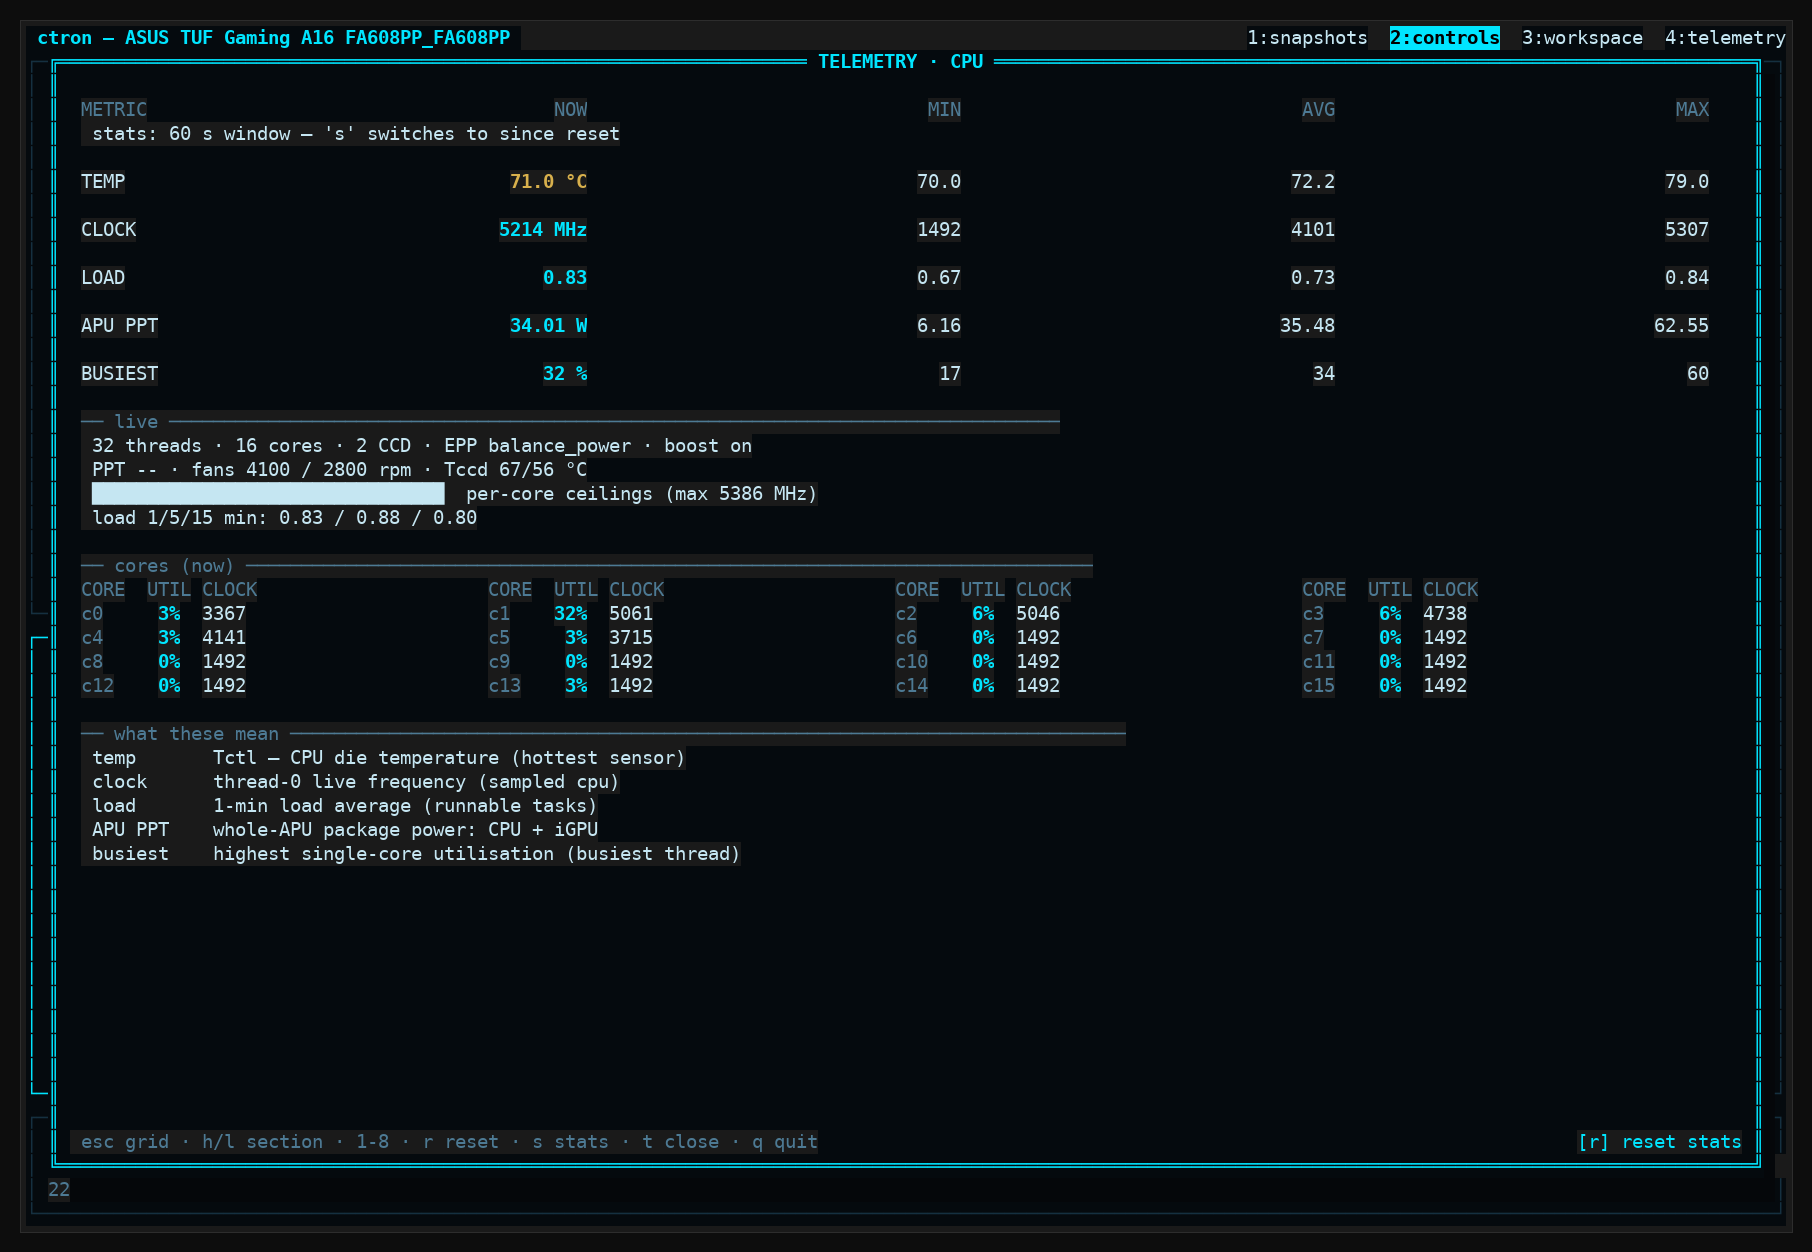
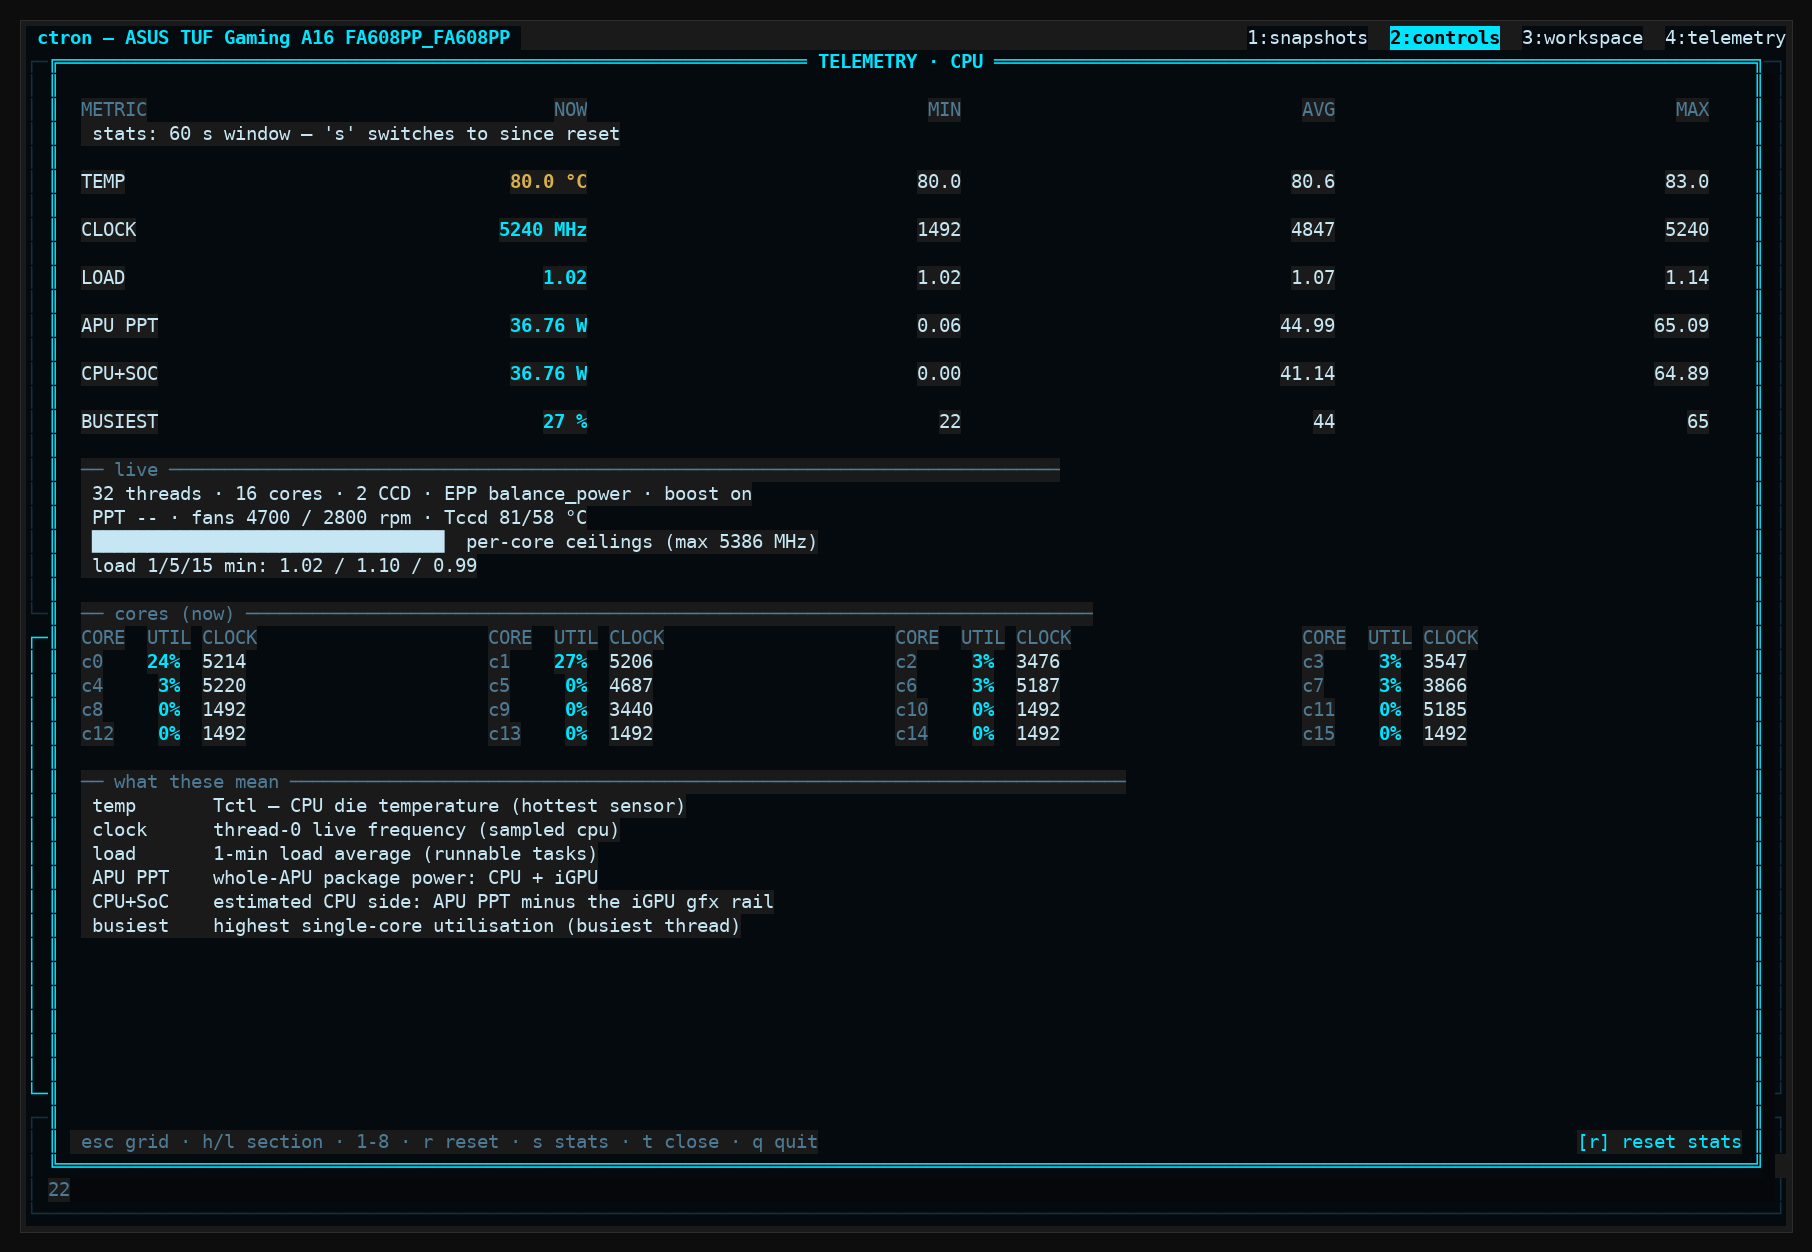
telem: APU power split - CPU+SoC (est) + iGPU gfx rail series - user ask: split the APU watt into CPU and iGPU; the researched formula ships: CPU+SoC = amdgpu power1_input minus the gpu_metrics gfx rail, both sides real sensors, the difference derived (hw_split_cpu_socw pure helper, unit-tested: unk

diff --git a/src/ui/panel_telem_full.c b/src/ui/panel_telem_full.c
@@ -148,6 +148,12 @@ static const chartdef_t CD_CPU[] = {
      * storage — watching a CPU test wants the package power beside */
     { "APU PPT", U_W, TS_IGPU_MW,
      "whole-APU package power: CPU + iGPU", ZN_NONE, -1, NULL },
+    /* the split's CPU side: package minus the iGPU gfx rail. Label
+     * says the truth — SoC/uncore ride along, and both source
+     * counters sample on different clocks (est, short wobble) */
+    { "CPU+SoC", U_W, TS_CPU_SOCMW,
+     "estimated CPU side: APU PPT minus the iGPU gfx rail",
+     ZN_NONE, -1, NULL },
     /* the per-core table below is a NOW snapshot with no stats by
      * design (16 cores x min/avg/max x 2 modes would bury the page);
      * the time dimension of "how busy do the cores get" lives here,
@@ -169,7 +175,13 @@ static const chartdef_t CD_IGPU[] = {
     /* amdgpu power1_input is the SoC PPT: the WHOLE APU package
      * (CPU cores + iGPU + fabric), not the iGPU rail alone */
     { "APU PPT", U_W, TS_IGPU_MW,
-      "whole-APU package power: CPU + iGPU", ZN_NONE, -1, NULL },
+     "whole-APU package power: CPU + iGPU", ZN_NONE, -1, NULL },
+    /* the split's iGPU side, straight from gpu_metrics — the only
+     * live per-rail power this silicon reports (caps at the ~10 W
+     * gfx rail budget under load, reads true 0 W when gated) */
+    { "gfx rail", U_W, TS_IGPU_GFXMW,
+     "iGPU rail power (gpu_metrics; caps at the rail budget)",
+     ZN_NONE, -1, NULL },
     { "clock", U_MHZ, TS_IGPU_MHZ, "iGPU graphics clock",
       ZN_NONE, -1, NULL },
 };
@@ -713,7 +725,7 @@ static int core_now_table(struct ncplane *n, int x, int y, int w, int rows)
             if (cx + 15 >= x + w)
                 break;
             int u = hw->core_util[i + c], m = hw->core_mhz[i + c];
-            char id[8], uv[8], mv[8];
+            char id[16], uv[16], mv[16];
             snprintf(id, sizeof id, "c%d", hw->core_cpu[i + c]);
             if (u >= 0)
                 snprintf(uv, sizeof uv, "%d%%", u);
@@ -843,10 +855,10 @@ static void detail_igpu(struct ncplane *n, const rect_t *r)
     if (hw->igpu_dpm >= 0 && (size_t)blen < sizeof l1)
         snprintf(l1 + blen, sizeof l1 - blen, " · sclk DPM %d/%d @ %d MHz",
                  hw->igpu_dpm + 1, hw->igpu_dpm_n, hw->igpu_dpm_mhz);
-    if (hw->igpu_gfx_mw >= 0)
+    if (hw->cpu_soc_mw >= 0)
         snprintf(l2, sizeof l2,
-                 " APU PPT = whole-package (CPU+iGPU) · gfx rail %.1f W",
-                 hw->igpu_gfx_mw / 1000.0);
+                 " split: CPU+SoC %.1f W + gfx rail %.1f W (est)",
+                 hw->cpu_soc_mw / 1000.0, hw->igpu_gfx_mw / 1000.0);
     else
         snprintf(l2, sizeof l2, " APU PPT = whole-package power (CPU+iGPU)");
     const char *info[3] = { l0, l1, l2 };
@@ -1338,6 +1350,8 @@ void telem_poll(hw_state_t *hw, long now_ms)
     telem_push(TS_IGPU_TEMP, hw->igpu_temp);
     telem_push(TS_IGPU_MHZ, hw->igpu_mhz);
     telem_push(TS_IGPU_MW, hw->igpu_mw);
+    telem_push(TS_IGPU_GFXMW, hw->igpu_gfx_mw);
+    telem_push(TS_CPU_SOCMW, hw->cpu_soc_mw);
     telem_push(TS_FAN_CPU, hw->rpm_cpu);
     telem_push(TS_FAN_GPU, hw->rpm_gpu);
     telem_push(TS_MEM_USED, hw->mem_used_mb);

diff --git a/src/main.c b/src/main.c
@@ -280,7 +280,7 @@ static void csv_val(char *out, size_t n, int v)
 static int cmd_csv(hw_state_t *hw, const char *path)
 {
     /* columns this build writes — the header and the row must agree */
-    enum { CSV_COLS = 15 };
+    enum { CSV_COLS = 17 };
     bool new = ut_path_exists(path) == false;
     int hdr_cols = 0;
     if (!new) {
@@ -316,7 +316,8 @@ static int cmd_csv(hw_state_t *hw, const char *path)
     if (new)
         fprintf(f, "epoch,cpu_temp_c,igpu_temp_c,gpu_temp_c,cpu_mhz,gpu_mhz,"
                    "gpu_util_pct,gpu_mw,fan_cpu_rpm,fan_gpu_rpm,bat_pct,bat_mw,"
-                   "load1,wifi_signal_pct,busiest_util_pct\n");
+                   "load1,wifi_signal_pct,busiest_util_pct,cpu_soc_mw,"
+                   "igpu_gfx_mw\n");
 
     struct sigaction sa = {0};
     sa.sa_handler = watch_stop;
@@ -327,7 +328,8 @@ static int cmd_csv(hw_state_t *hw, const char *path)
             new ? "new file" : "appending");
     while (s_watch_run) {
         char t[16], ti[16], tg[16], mc[16], mg[16], gu[16], gw[16],
-             fc[16], fg[16], bp[16], bm[16], l1[16], wl[16], bu[16];
+             fc[16], fg[16], bp[16], bm[16], l1[16], wl[16], bu[16],
+             cs[16], gr[16];
         hw_refresh_fast(hw);
         csv_val(t, sizeof t, hw->cpu_temp);
         csv_val(ti, sizeof ti, hw->igpu_temp);
@@ -346,9 +348,11 @@ static int cmd_csv(hw_state_t *hw, const char *path)
             l1[0] = '\0';
         csv_val(wl, sizeof wl, hw->wifi_link_pct);
         csv_val(bu, sizeof bu, hw->busiest_util);
-        fprintf(f, "%ld,%s,%s,%s,%s,%s,%s,%s,%s,%s,%s,%s,%s,%s,%s\n",
+        csv_val(cs, sizeof cs, hw->cpu_soc_mw);
+        csv_val(gr, sizeof gr, hw->igpu_gfx_mw);
+        fprintf(f, "%ld,%s,%s,%s,%s,%s,%s,%s,%s,%s,%s,%s,%s,%s,%s,%s,%s\n",
                 time(NULL), t, ti, tg, mc, mg, gu, gw, fc, fg, bp, bm, l1, wl,
-                bu);
+                bu, cs, gr);
         usleep((useconds_t)g_prefs.poll_ms * 1000);
     }
     fclose(f);

diff --git a/src/hw.h b/src/hw.h
@@ -67,6 +67,11 @@ int hw_parse_loadavg(const char *s, double *l1, double *l5, double *l15);
  * total = busy+idle+iowait). Returns highest cpu id seen + 1. Pure. */
 int hw_parse_cpu_stat(const char *s, long long *busy, long long *total,
                       int max_cpu);
+/* APU package split: the CPU-side estimate is whole-package minus the
+ * iGPU gfx rail. Either side unknown -> -1; a negative difference
+ * (cross-instant sampling skew — the two counters update on different
+ * clocks) clamps to 0. Pure. */
+int hw_split_cpu_soc_mw(int apu_mw, int gfx_mw);
 
 /* pstate/throttle-reason labels, bit i = 1u<<i in hw->gpu_throttle,
  * in the same order as the nvidia-smi query field list */
@@ -215,6 +220,7 @@ typedef struct hw_state {
     int igpu_busy;                             /* drm gpu_busy_percent */
     int igpu_dpm, igpu_dpm_n, igpu_dpm_mhz;    /* active pp_dpm_sclk level */
     int igpu_gfx_mw;                           /* gpu_metrics gfx field */
+    int cpu_soc_mw;                            /* APU PPT − gfx rail (est) */
     int cpu_temp_ccd1, cpu_temp_ccd2;          /* k10temp Tccd1/2, °C */
     int ram_temp_n, ram_temp[2];               /* spd5118 modules, °C */
     int ram_thresh_max, ram_thresh_crit;       /* spd5118 limits, °C */

diff --git a/src/telem.h b/src/telem.h
@@ -18,6 +18,7 @@
     X(TS_CPU_MHZ, "cpu_mhz", TELEM_AUTO, TELEM_AUTO)                       \
     X(TS_CPU_LOAD, "cpu_load", TELEM_AUTO, TELEM_AUTO)                     \
     X(TS_BUSIEST_UTIL, "busiest_util", 0, 100)                             \
+    X(TS_CPU_SOCMW, "cpu_soc_mw", TELEM_AUTO, TELEM_AUTO)                   \
     X(TS_GPU_TEMP, "gpu_temp", 0, 100)                                     \
     X(TS_GPU_MHZ, "gpu_mhz", TELEM_AUTO, TELEM_AUTO)                       \
     X(TS_GPU_MW, "gpu_mw", TELEM_AUTO, TELEM_AUTO)                         \
@@ -25,6 +26,7 @@
     X(TS_IGPU_TEMP, "igpu_temp", 0, 100)                                   \
     X(TS_IGPU_MHZ, "igpu_mhz", TELEM_AUTO, TELEM_AUTO)                     \
     X(TS_IGPU_MW, "igpu_mw", TELEM_AUTO, TELEM_AUTO)                       \
+    X(TS_IGPU_GFXMW, "igpu_gfx_mw", TELEM_AUTO, TELEM_AUTO)                 \
     X(TS_FAN_CPU, "fan_cpu_rpm", TELEM_AUTO, TELEM_AUTO)                   \
     X(TS_FAN_GPU, "fan_gpu_rpm", TELEM_AUTO, TELEM_AUTO)                   \
     X(TS_MEM_USED, "mem_used_mb", TELEM_AUTO, TELEM_AUTO)                  \

diff --git a/src/hw.c b/src/hw.c
@@ -836,6 +836,15 @@ int hw_parse_loadavg(const char *s, double *l1, double *l5, double *l15)
     return 0;
 }
 
+/* APU package split — see the hw.h comment. Pure — tested. */
+int hw_split_cpu_soc_mw(int apu_mw, int gfx_mw)
+{
+    if (apu_mw < 0 || gfx_mw < 0)
+        return -1;
+    int d = apu_mw - gfx_mw;
+    return d > 0 ? d : 0;
+}
+
 /* /proc/stat per-cpu jiffies: "cpuN user nice system idle iowait irq
  * softirq steal ...". busy = user+nice+system+irq+softirq+steal (guest
  * is already folded into user on the host), total = busy+idle+iowait —
@@ -1119,6 +1128,7 @@ static void read_telem_extras(hw_state_t *hw)
             }
         }
     }
+    hw->cpu_soc_mw = hw_split_cpu_soc_mw(hw->igpu_mw, hw->igpu_gfx_mw);
 
     /* Tccd sensors: k10temp temp3/temp4, verified once against their
      * labels so a different chip layout never shows a wrong name */

diff --git a/tests/test_core.c b/tests/test_core.c
@@ -942,6 +942,17 @@ static void check_telem_hw(void)
               "cpu_stat null/empty honest");
     }
 
+    /* APU split: CPU+SoC = package − gfx rail, honest edges */
+    {
+        CHECK(hw_split_cpu_soc_mw(26410, 10000) == 16410,
+              "split plain difference");
+        CHECK(hw_split_cpu_soc_mw(-1, 10000) == -1 &&
+                  hw_split_cpu_soc_mw(26410, -1) == -1,
+              "split unknown side stays unknown");
+        CHECK(hw_split_cpu_soc_mw(8000, 10000) == 0,
+              "split cross-instant skew clamps to zero");
+    }
+
     /* /proc/<pid>/mounts: whole-disk filter + per-device dedupe */
     {
         static const char mt[] =

diff --git a/HANDOFF.md b/HANDOFF.md
@@ -1,6 +1,44 @@
 # Ctron Handoff
 
-Latest session — **2026-10-29 (16th round, per-core NOW table +
+Latest session — **2026-10-29 (17th round, APU power split SHIPPED)**
+
+**GLM / Kerempkl / FA608PP** — user: "apu watt değerini cpu igpu
+olarak nasıl ayırabiliriz şimdi ayırabilir misin" → the 15a research
+is now code. **CPU+SoC (est) = amdgpu power1_input − gpu_metrics gfx
+rail**, both sides real sensors, the difference derived:
+
+- **Two new rings**: TS_IGPU_GFXMW ("gfx rail", the iGPU side,
+  straight from gpu_metrics) and TS_CPU_SOCMW ("CPU+SoC", the
+  derived CPU side). CPU section carries CPU+SoC right under APU PPT;
+  iGPU section carries gfx rail under APU PPT; both get the full
+  series treatment (grid row + window range, detail now/min/avg/max,
+  's', 'r', legend). iGPU detail's live line now reads
+  "split: CPU+SoC 18.8 W + gfx rail 10.0 W (est)".
+- **hw_split_cpu_soc_mw()** (pure, unit-tested): either side unknown
+  → -1; a negative difference (the two counters sample on different
+  clocks — power1_input is instant SMU, gfx is a ~1 Hz table) clamps
+  to 0. Computed in read_telem_extras into hw->cpu_soc_mw.
+- **--csv grew to 17 columns** (cpu_soc_mw, igpu_gfx_mw appended;
+  guard updated). Live-verified under the EGL shader probe: gfx rail
+  pegged at 9.9-10.0 W (its budget ceiling), CPU+SoC ~30 W, TUI dump
+  showed APU PPT 28.24 = CPU+SoC 18.24 + gfx 10.00.
+- Honest-label notes (HARDWARE.md EN+TR updated): the value is
+  CPU+SoC+uncore (SoC rides the CPU side), gfx saturates at ~10 W
+  under load and reads true 0 W when gated, single instants can
+  wobble (ring averages smooth it). A MEASURED per-core watt is
+  still root-gated (rapl_probe rebuilt in build/ — see below).
+- **`make clean` = `rm -rf build` wiped the research probes** —
+  lesson recorded; apuload.c and rapl_probe.c were recreated from
+  the HANDOFF record (proxytest/proxyan analysis scripts are gone;
+  their results live in this file and the memory notes). The
+  user-facing validation command stands: `sudo build/rapl_probe
+  cores 3` (+ `pkg 3`), ideally under load.
+- Verified: 0 warnings (one -Wformat-truncation in the core-table
+  cell buffers fixed by widening), make test (+3 split checks), full
+  tuitest, live dumps of CPU + iGPU detail under real iGPU shader
+  load, tui-telem.png re-shot, install in the same breath.
+
+Before that **2026-10-29 (16th round, per-core NOW table +
 busiest series; before it two read-only research turns)**
 
 **GLM / Kerempkl / FA608PP** — the day's research-to-code arc, in

diff --git a/HARDWARE.md b/HARDWARE.md
@@ -140,9 +140,15 @@ Notes:
     `gpu_busy_percent` and the active `pp_dpm_sclk` level.
     `gpu_metrics`: the only live power slice on Dragon Range is the
     gfx field (signature-gated read) — the CPU blocks of that blob
-    are permanently 0xFF (probed live 2026-10-27) and RAPL
-    `energy_uj` is root-only, so there is **no honest sudoless CPU
-    watt on FA608PP**.
+    are permanently 0xFF (probed live 2026-10-27). The APU split
+    shown in the TUI is **CPU+SoC (est) = power1_input − gfx
+    rail** (both sides real sensors, the difference derived; the
+    gfx rail saturates at its ~10 W budget under load and reads
+    true 0 W when gated, and the two counters sample on different
+    clocks, so single instants can wobble — the ring averages
+    smooth it). A MEASURED per-core/CPU watt still needs root:
+    RAPL `energy_uj` is 0400 and the per-core `power_core` perf
+    PMU (kernel 6.14+) is gated by perf_event_paranoid.
   - **RAM**: spd5118 module temps are uncommon hardware — most
     laptops have none and show `--`. Where present, the limits
     (`temp1_max`/`temp1_crit`) and the kernel `max_alarm` flag
@@ -309,8 +315,14 @@ Notlar:
     etkin `pp_dpm_sclk` kademesini ekler. `gpu_metrics`: Dragon
     Range'de tek canlı güç dilimi gfx alanıdır (imza-kapılı okuma) —
     o bloğun CPU kısımları kalıcı 0xFF (2026-10-27'de canlı
-    yoklandı) ve RAPL `energy_uj` root-only olduğundan FA608PP'de
-    **sudo'suz dürüst CPU watt yoktur**.
+    yoklandı). TUI'deki APU ayrıştırması **CPU+SoC (est) =
+    power1_input − gfx rayı** (iki taraf da gerçek sensör, fark
+    türetilmiş; gfx rayı yük altında ~10 W bütçesinde doyar,
+    kapılandığında gerçek 0 W okur, iki sayaç farklı saatlerde
+    örneklendiğinden tek anlar titreyebilir — halka ortalaması
+    yumuşatır). ÖLÇÜLMÜŞ çekirdek/CPU watt'ı hâlâ root ister:
+    RAPL `energy_uj` 0400, çekirdek başına `power_core` perf PMU
+    (kernel 6.14+) perf_event_paranoid ardında.
   - **RAM**: spd5118 modül sıcaklıkları nadir donanımdır — çoğu
     laptop'ta yoktur, `--` görünür. Varsa limitler
     (`temp1_max`/`temp1_crit`) ve çekirdeğin `max_alarm` bayrağı da

diff --git a/CHANGELOG.md b/CHANGELOG.md
@@ -1,5 +1,32 @@
 # Changelog
 
+## 2026-10-29 — telem: APU power split (CPU+SoC est + iGPU gfx rail)
+
+- User ask: split the APU watt value into CPU and iGPU — the
+  researched formula is now shipped. **CPU+SoC (est) = amdgpu
+  power1_input − gpu_metrics gfx rail**: both sides real sensors,
+  the difference derived (hw_split_cpu_soc_mw, pure, unit-tested;
+  unknown side stays "--", cross-instant skew clamps to 0).
+- Two new ring series: "gfx rail" in the iGPU section (straight
+  from gpu_metrics — the only live per-rail power this silicon
+  reports) and "CPU+SoC" in the CPU section beside APU PPT; both
+  with the full stats treatment (grid range, detail min/avg/max,
+  's' window↔since-reset, 'r' reset). iGPU detail live line shows
+  the split summary. --csv grew to 17 columns (cpu_soc_mw,
+  igpu_gfx_mw; append guard updated).
+- Honest labelling (HARDWARE.md EN+TR): the CPU side includes
+  SoC/uncore, the gfx rail saturates at its ~10 W budget under load
+  and reads true 0 W when power-gated, and the two source counters
+  sample on different clocks so single instants can wobble — ring
+  averages smooth it. Live-verified under the EGL shader probe:
+  APU PPT 28.24 W = CPU+SoC 18.24 W + gfx 10.00 W.
+- Side fix: -Wformat-truncation in the per-core table cell buffers
+  (widened). Research probes wiped by `make clean` (rm -rf build)
+  were recreated from the HANDOFF record (apuload, rapl_probe).
+- Verified: 0 warnings, make test (+3 checks), full tuitest, live
+  dumps under real iGPU load, tui-telem.png re-shot, install in the
+  same breath.
+
 ## 2026-10-29 — telem: per-core NOW table + busiest-core series
 
 - User ask: the per-core proxy research (util/C-state/freq, verified

diff --git a/README.md b/README.md
@@ -100,7 +100,9 @@ each showing live numbers with zone colouring — CPU & GPU
 temperatures, clocks, load, APU package power, fan RPMs, dGPU
 power/utilisation/VRAM, iGPU temp/clock/power, RAM use + module
 temps, NVMe temps + disk I/O, per-mount disk usage, per-interface
-network rx/tx, wifi signal quality, battery draw/charge.
+network rx/tx, wifi signal quality, battery draw/charge, and the
+APU power split (CPU+SoC estimate beside the iGPU rail, both with
+window stats).
 `j`/`k` walk the section grid and `Enter` (or `1`–`8`) opens a
 section's **detail page**: a numeric now/min/avg/max table over the
 ~60 s window plus info lines from a fresh live snapshot (PPT/EPP,
